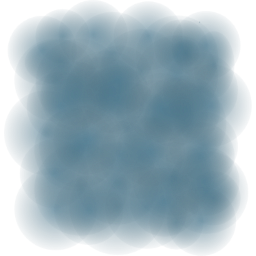
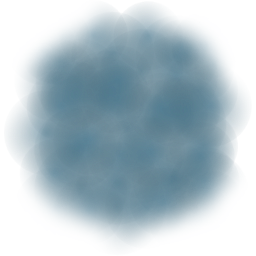
adding test 3D fog

diff --git a/Assets/Scripts/ParticleFogOfWarTile.cs b/Assets/Scripts/ParticleFogOfWarTile.cs
@@ -1,0 +1,71 @@
+////////////////////////////////////////////////////////////////////////////////////////
+// Action At Sea - ParticleFogOfWarTile.cs
+////////////////////////////////////////////////////////////////////////////////////////
+
+using UnityEngine;
+using System;
+using System.Collections;
+
+public class ParticleFogOfWarTile : MonoBehaviour 
+{   
+    public GameObject particleEffect = null;
+
+    /// <summary>
+    /// Initialises the particle effect
+    /// </summary>
+    void Start () 
+    {
+        var gameBoard = GameObject.FindGameObjectWithTag("GameBoard");
+        if(gameBoard == null)
+        {
+            throw new NullReferenceException(
+                "Could not find Game Board in scene");
+        }
+
+        var boardBounds = gameBoard.GetComponent<SpriteRenderer>().bounds;
+        var boardWidth = Mathf.Abs(boardBounds.max.x - boardBounds.min.x);
+        var boardLength = Mathf.Abs(boardBounds.max.z - boardBounds.min.z);
+
+        var center = particleEffect.GetComponent<SphereCollider>().center;
+
+        const float size = 7.5f;
+        const int border = 2;
+        int amountX = Mathf.CeilToInt(boardWidth / size);
+        int amountZ = Mathf.CeilToInt(boardLength / size);
+        amountX += border * 2;
+        amountZ += border * 2;
+
+        for(int x = 0; x < amountX; ++x)
+        {
+            for(int z = 0; z < amountZ; ++z)
+            {
+                var particle = Instantiate(particleEffect);
+                particle.transform.parent = transform;
+
+                particle.GetComponent<ParticleSystem>().randomSeed = 
+                    (uint)UnityEngine.Random.Range(0, 1000);
+
+                float randX = UnityEngine.Random.Range(-1.0f, 1.0f);
+                float randY = UnityEngine.Random.Range(-1.0f, 1.0f);
+                float randZ = UnityEngine.Random.Range(-1.0f, 1.0f);
+
+                particle.transform.position = new Vector3(
+                    (size * ((amountX - 1) * 0.5f)) - (x * size) + randX - center.x,
+                    transform.position.y + randY,
+                    (size * ((amountZ - 1) * 0.5f)) - (z * size) + randZ - center.z);
+
+                particle.GetComponent<ParticleSystem>().Play();
+                particle.GetComponent<ParticleSystem>().Pause();
+                particle.isStatic = true;
+
+                // Border tiles cannot be interacted with
+                if(x < border || z < border || x >= amountX-border || z >= amountZ-border)
+                {
+                    particle.GetComponent<SphereCollider>().enabled = false;
+                }
+            }
+        }
+
+        particleEffect.SetActive(false);
+    }
+}

diff --git a/Assets/Scripts/ParticleFogOfWar.cs b/Assets/Scripts/ParticleFogOfWar.cs
@@ -1,0 +1,73 @@
+////////////////////////////////////////////////////////////////////////////////////////
+// Action At Sea - ParticleFogOfWar.cs
+////////////////////////////////////////////////////////////////////////////////////////
+
+using UnityEngine;
+using System.Collections;
+
+public class ParticleFogOfWar : MonoBehaviour 
+{    
+    private ParticleSystem m_particles;
+    private bool m_fade = false;
+    private Color m_colour = new Color(0.294f, 0.294f, 0.353f, 1.0f);
+    private bool m_initialised = false;
+
+    /// <summary>
+    /// Initialises the particle effect
+    /// </summary>
+    void Start () 
+    {
+        m_particles = GetComponent<ParticleSystem>();
+    }
+
+    /// <summary>
+    /// On collision with the player
+    /// </summary>
+    void OnTriggerEnter(Collider other)
+    {
+        if (other.gameObject.tag == "Player")
+        {
+            m_fade = true;
+        }
+    }
+
+    /// <summary>
+    /// Enables/disables collision detection
+    /// </summary>
+    void Update()
+    {
+        m_particles.GetComponent<SphereCollider>().enabled = 
+            PlayerPlacer.IsCloseToPlayer(m_particles.transform.position);
+
+        if(m_fade || !m_initialised)
+        {
+            if(m_initialised)
+            {
+                m_colour.r -= Time.deltaTime * 0.15f;
+                m_colour.g -= Time.deltaTime * 0.15f;
+                m_colour.b -= Time.deltaTime * 0.15f;
+                m_colour.a -= Time.deltaTime * 0.7f;
+            }
+
+            m_initialised = true;
+
+            if(m_colour.a <= 0.0f)
+            {
+                m_particles.gameObject.SetActive(false);
+            }
+            else
+            {
+                ParticleSystem.Particle[] particles = new ParticleSystem.Particle[m_particles.particleCount];
+                m_particles.GetParticles(particles);
+
+                for(int i = 0; i < particles.Length; ++i)
+                {
+                    particles[i].size -= Time.deltaTime * 2.0f;
+                    particles[i].color = m_colour;
+                }
+
+                m_particles.SetParticles(particles, m_particles.particleCount);
+            }
+        }
+    }
+}
